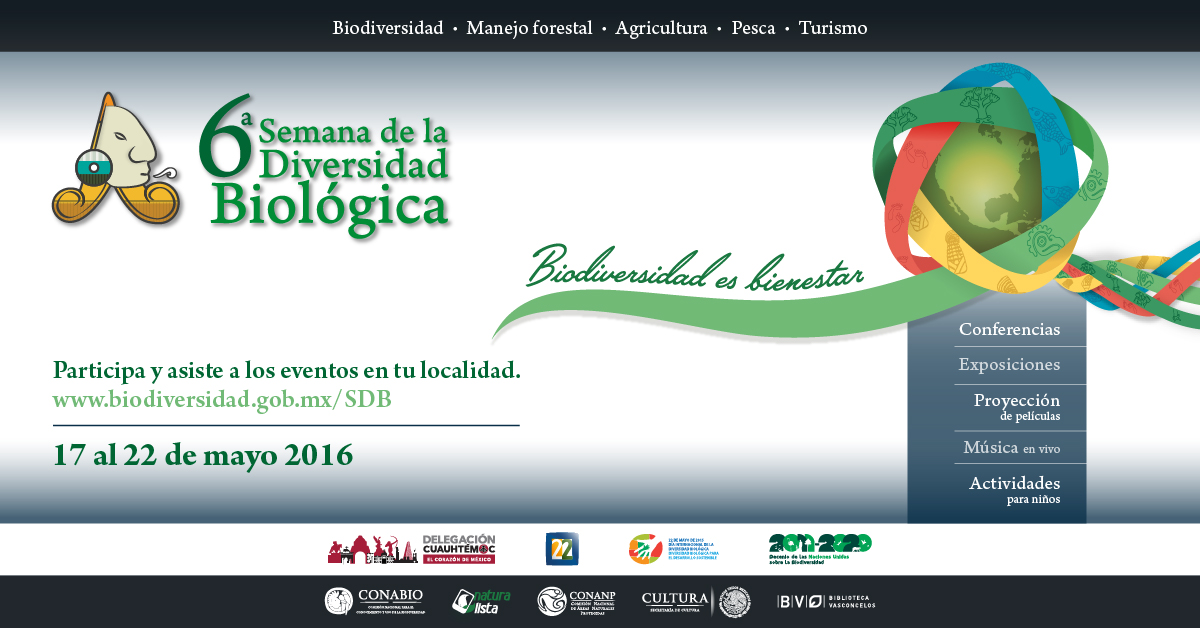
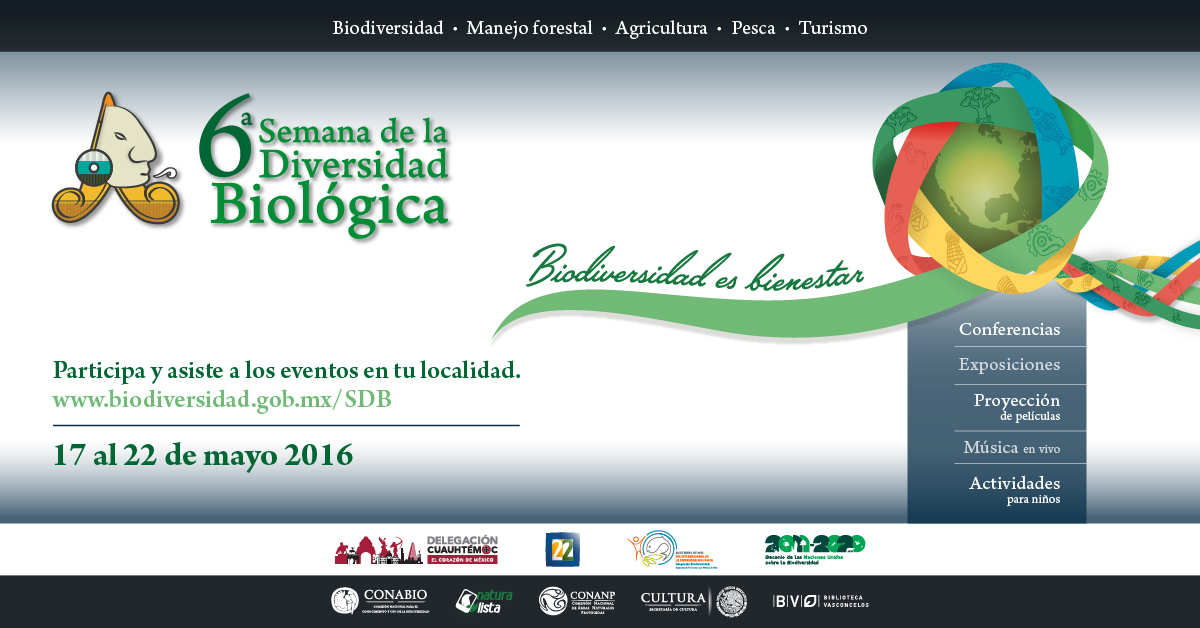
Nueva seccion ponentes, materiales

diff --git a/css/style.css b/css/style.css
@@ -787,7 +787,6 @@
 		
 		.piesImg {
 			font-size: 0.8em;
-			line-height: 1.5em;
 			margin: 0;
 		}
 

diff --git a/protected/views/semana/ponentes.php b/protected/views/semana/ponentes.php
@@ -1,0 +1,84 @@
+
+<script src="<?php echo Yii::app()->request->baseUrl; ?>/assets/js/jquery.min.js"></script>
+
+
+<link rel="stylesheet" href="<?php echo Yii::app()->request->baseUrl; ?>/css/jquery-ui.css">
+<script src="<?php echo Yii::app()->request->baseUrl; ?>/assets/js/jquery-1.10.2.js"></script>
+<script src="<?php echo Yii::app()->request->baseUrl; ?>/assets/js/jquery-ui.js"></script>
+<script>
+$(function() {
+$( "#accordion" ).accordion({
+  collapsible: true,
+  heightStyle: "content",
+  active: false
+});
+});
+</script>
+
+
+<h1>Ponentes</h1><br>
+
+<div style="width: 50%; display:inline-block; float:left;">
+<span class="tit_materiales">Biodiversidad es bienestar</span><br>
+<a href="http://web.ecologia.unam.mx/personal/personal_perfil.php?var1=Dr.&var2=José_A.&var3=Sarukhán&var4=Kermez" target="_blank">Dr. José A. Sarukhán Kermez</a><br>
+<a href="https://www.researchgate.net/profile/Hesiquio_Benitez-Diaz" target="_blank">Biól. Hesiquio Benítez Díaz</a><br>
+<a href="http://www.grandesmaestros.unam.mx/dr-alfredo-lopez-austin/" target="_blank">Dr. Alfredo López Austin</a><br>
+<a href="http://nestorgarciacanclini.net/index.php/semblanza" target="_blank">Dr. Néstor García Canclini</a><br>
+<a href="http://maestriaeditorial.xoc.uam.mx/index.php?option=com_content&view=article&id=242:dgoldin&catid=39:coordinadores&Itemid=91" target="_blank">Ma. Daniel Goldin Halfon</a><br><br>
+
+<span class="tit_materiales">Fotografía de naturaleza</span><br>
+<a href="https://twitter.com/letatdeschoses" target="_blank">Lic. Claudia Muzzi</a><br>
+<a href="http://luisjaviersandoval.photoshelter.com/#!/about" target="_blank">Biól. Luis Javier Sandoval</a><br>
+<a href="http://www.fulvioeccardi.com/" target="_blank">Biól. Fulvio Eccardi</a><br>
+<a href="http://jaguarnegro.mx/web/?page_id=90#.Vw_w-JMrLUI" target="_blank">Biól. Jorge Douglas Brandon Pliego</a><br>
+<a href="http://mixfm.mx/locutores/inaki-manero/" target="_blank">Iñaki Manero</a><br><br>
+
+
+<span class="tit_materiales">Agricultura y pesca</span><br>
+<a href="http://www.uccs.mx/expertos/agricultura_alimentacion/alejandro-espinosa-calderon.html" target="_blank">Dr. Alejandro Espinosa Calderón</a><br>
+<a href="https://www.youtube.com/watch?v=hHgkl80g57k" target="_blank">Dr. Pablo Arenas Fuentes</a><br>
+<a href="http://www.literatura.bellasartes.gob.mx/acervos/index.php/catalogo-biobibliografico/1424?showall=1" target="_blank">Victor Ronquillo</a><br>
+<a href="http://causanatura.org/acerca-de-causanatura/ernesto-herrera/" target="_blank">Dr. Ernesto Herrera Guerra</a><br>
+<a href="http://www.imer.mx/reactor/author/leonardoferrera/" target="_blank">Leonardo Ferrera</a><br>
+<!--<a href="https://es.wikipedia.org/wiki/Karla_Iberia_Sánchez" target="_blank">Karla Iberia Sánchez</a><br>-->
+<a href="https://www.youtube.com/watch?v=rlu1E7PgLzs" target="_blank">Dr. Teobaldo Eguiluz Piedra</a><br><br>
+</div>
+
+
+<div style="width: 50%; display:inline-block; float:left;">
+<span class="tit_materiales">Turismo y manejo forestal</span><br>
+<a href="http://www.puma.unam.mx/diplomado/index.php/cuerpo-docente/1-cuerpo-docente/20-pedro-alvarez-icaza" target="_blank">Mtro. Pedro Álvarez Icaza</a><br>
+<a href="http://www.ceiba.org.mx/quienes-somos/miembros/name/alfredo-arellano-guillermo/" target="_blank">Biól. Alfredo Arellano Guillermo</a><br>
+<a href="http://www.conafor.gob.mx:8080/documentos/docs/7/2355CV%20Enrique%20Jardel.pdf" target="_blank">M. en C. Enrique Jardel Peláez</a><br>
+<a href="https://www.youtube.com/watch?v=v8vxiwA4Ec4" target="_blank">Jordi Arenas</a><br>
+<!--<a href="" target="_blank">Lic. Salvador Villalobos</a><br>
+<a href="" target="_blank">Francisco Alanis</a>--><br><br>
+
+
+<span class="tit_materiales">Naturalista</span><br>
+<a href="http://conabio.inaturalist.org/people/heliographyst" target="_blank">Biól. Roberto Arreola Alemón</a><br>
+<a href="http://conabio.inaturalist.org/people/elizatorres" target="_blank">Biól. Elizabeth Torres Bahena</a><br>
+<a href="https://www.linkedin.com/in/astrid-domínguez-guerrero-a9833498" target="_blank">D.G. Astrid Domínguez Guerrero</a><br><br>
+</div>
+
+
+
+
+</section>
+
+<!-- Two -->
+<section id="two"></section>
+
+
+
+
+
+
+
+
+
+
+
+
+
+

diff --git a/protected/views/semana/materiales.php b/protected/views/semana/materiales.php
@@ -38,26 +38,27 @@
                                 <p class="tit_materiales"><img src="<?php echo Yii::app()->request->baseUrl; ?>/imagenes/aplicacion/SDB_2015/Imagenes/ic_video.png" width="25" height="22" /> Videos</p>
                                 <p>
                                 <iframe width="200" height="113" src="https://www.youtube.com/embed/aRjSxNLzwOs?rel=0" frameborder="0" allowfullscreen></iframe><br>
-                                <span class="piesImg"><strong>Promocional<br>
-                                </strong><span class="conabio">Conabio</span></span>
+                                <span class="piesImg"><strong>Promocional</strong> | <span class="conabio">Conabio</span></span>
                                 </p>
                                 
                                 <p>
                                 <iframe width="200" height="126" src="https://www.youtube.com/embed/videoseries?list=PLLAcoRHqCmNRCFBpoPEsXptvw22nSQ3p5" frameborder="0" allowfullscreen></iframe><br>
-                                <span class="piesImg"><strong>Serie BIOS, Naturaleza y sociedad<br>
-                                </strong><span class="conabio">Conabio</span></span>
+                                <span class="piesImg"><strong>Serie BIOS, Naturaleza y sociedad</strong> | <span class="conabio">Conabio</span></span>
+                                </p>
+                                
+                                <p>
+                                <iframe width="200" height="113" src="https://www.youtube.com/embed/TKAGeQG3m4s?rel=0" frameborder="0" allowfullscreen></iframe><br>
+                                <span class="piesImg"><strong>COP 13 de Biodiversidad</strong> | <span class="conabio">Conabio</span></span>
                                 </p>
                                 
                                 <p>
                                 <iframe width="200" height="126" src="https://www.youtube.com/embed/videoseries?list=PLLAcoRHqCmNQv7NSPwbaARfIIveV0Mx6C" frameborder="0" allowfullscreen></iframe><br>
-                                <span class="piesImg"><strong>Serie Hábitat<br>
-                                </strong>Pronatura México A.C.</span>
+                                <span class="piesImg"><strong>Serie Hábitat</strong> | Pronatura México A.C.</span>
                                 </p>
                                 
                                 <p>
                                 <iframe width="200" height="126" src="https://www.youtube.com/embed/videoseries?list=PLLAcoRHqCmNSRYOrx-s0B_5t0Qc99SIoT&amp" frameborder="0" allowfullscreen></iframe><br />
-                                <span class="piesImg"><strong>Serie Consumo Responsable<br />
-                                </strong><span class="conabio">Conabio</span></span>
+                                <span class="piesImg"><strong>Serie Consumo Responsable</strong> | <span class="conabio">Conabio</span></span>
                                 </p>
                                   
 								</td>

diff --git a/protected/views/semana/inicio.php b/protected/views/semana/inicio.php
@@ -10,7 +10,7 @@
   Organiza alguna conferencia o charla para el público general sobre uno o más sitios seleccionados en tu región o estado. Organiza un evento que ayude al público a reflexionar sobre la naturaleza de algún sitio especial.
   <br><br>
 Si tienes alguna duda o requieres m&aacute;s informaci&oacute;n escr&iacute;benos a:&nbsp;<a href="mailto:sdb@conabio.gob.mx">sdb@conabio.gob.mx</a></p>
-                          <p><a href="http://www.conabio.gob.mx/" target="_blank"><img src="<?php echo Yii::app()->request->baseUrl; ?>/imagenes/aplicacion/SDB_2015/Imagenes/logConabio.png" width="178" height="59" /></a> <a href="http://www.bibliotecavasconcelos.gob.mx/" target="_blank"><img src="<?php echo Yii::app()->request->baseUrl; ?>/imagenes/aplicacion/SDB_2015/Imagenes/logBVasconcelos.png" width="162" height="59" /></a> <a href="http://www.un.org/es/events/biodiversityday/" target="_blank"><img src="<?php echo Yii::app()->request->baseUrl; ?>/imagenes/aplicacion/SDB_2015/Imagenes/logos_DIntDivBiol.png" width="198" height="59" /></a> <a href="http://www.cuauhtemoc.cdmx.gob.mx" target="_blank"><img src="<?php echo Yii::app()->request->baseUrl; ?>/imagenes/aplicacion/SDB_2015/Imagenes/logo_delcuauhtemoc.png" width="243" height="59" /></a></p>
+                          <p><a href="http://www.conabio.gob.mx/" target="_blank"><img src="<?php echo Yii::app()->request->baseUrl; ?>/imagenes/aplicacion/SDB_2015/Imagenes/logConabio.png" width="178" height="59" /></a> <a href="http://www.bibliotecavasconcelos.gob.mx/" target="_blank"><img src="<?php echo Yii::app()->request->baseUrl; ?>/imagenes/aplicacion/SDB_2015/Imagenes/logBVasconcelos.png" width="162" height="59" /></a> <a href="http://www.un.org/es/events/biodiversityday/" target="_blank"><img src="<?php echo Yii::app()->request->baseUrl; ?>/imagenes/aplicacion/SDB_2015/Imagenes/logos_DIntDivBiol.png" width="147" height="59" /></a> <a href="http://www.cuauhtemoc.cdmx.gob.mx" target="_blank"><img src="<?php echo Yii::app()->request->baseUrl; ?>/imagenes/aplicacion/SDB_2015/Imagenes/logo_delcuauhtemoc.png" width="243" height="59" /></a></p>
                         
 </section>
 

diff --git a/protected/views/layouts/main.php b/protected/views/layouts/main.php
@@ -95,6 +95,8 @@ function MM_swapImage() { //v3.0
                         
                         <a href="<?php echo Yii::app()->request->baseUrl; ?>/index.php?r=semana/aliados"><img src="<?php echo Yii::app()->request->baseUrl; ?>/imagenes/aplicacion/SDB_2015/Imagenes/btn_aliados.png" name="aliados" width="90" height="127" id="aliados" onMouseOver="MM_swapImage('aliados &lt;img&gt;','','/Imagenes/titEstadisticas_03.png','aliados','','<?php echo Yii::app()->request->baseUrl; ?>/imagenes/aplicacion/SDB_2015/Imagenes/btn2_aliados.png',1)" onMouseOut="MM_swapImgRestore()"></a>
                         
+                        <a href="<?php echo Yii::app()->request->baseUrl; ?>/index.php?r=semana/ponentes"><img src="<?php echo Yii::app()->request->baseUrl; ?>/imagenes/aplicacion/SDB_2015/Imagenes/btn_ponentes.png" name="ponentes" width="90" height="127" id="ponentes" onMouseOver="MM_swapImage('ponentes &lt;img&gt;','','/Imagenes/titEstadisticas_03.png','ponentes','','<?php echo Yii::app()->request->baseUrl; ?>/imagenes/aplicacion/SDB_2015/Imagenes/btn2_ponentes.png',1)" onMouseOut="MM_swapImgRestore()"></a>
+                        
                         </p>
 						<?php if (!Yii::app()->user->isGuest) { ?>
 							<a href="<?php echo Yii::app()->request->baseUrl; ?>/index.php?r=semana/index">Ver tus eventos</a>

diff --git a/protected/views/semana/aliados.php b/protected/views/semana/aliados.php
@@ -6,9 +6,13 @@
 
 <li><a href="http://www.mexico.discovery.com/?x-country=MX&redirect-session=MX" target="_blank"><img src="<?php echo Yii::app()->request->baseUrl; ?>/imagenes/aplicacion/SDB_2015/Imagenes/logo64_discovery.png" alt="Discovery Channel"></a></li>
 
+<li><a href="http://www.reforestamosmexico.org" target="_blank"><img src="<?php echo Yii::app()->request->baseUrl; ?>/imagenes/aplicacion/SDB_2015/Imagenes/logo64_reforestamos.png" alt="Reforestamos México"></a></li>
+
 <li><a href="http://www.nikon.com.mx/" target="_blank"><img src="<?php echo Yii::app()->request->baseUrl; ?>/imagenes/aplicacion/SDB_2015/Imagenes/logo64_nikon.png" alt="Nikon"></a></li>
 
 <li><a href="http://www.fundacionacir.org.mx/" target="_blank"><img src="<?php echo Yii::app()->request->baseUrl; ?>/imagenes/aplicacion/SDB_2015/Imagenes/logo64_facir.png" alt="Fundación Acir"></a></li>
+
+<li><a href="http://acuariomichin.com" target="_blank"><img src="<?php echo Yii::app()->request->baseUrl; ?>/imagenes/aplicacion/SDB_2015/Imagenes/logo64_amichin.png" alt="Acuario Michin"></a></li>
 
 <li><a href="http://www.cronicaambiental.com.mx/" target="_blank"><img src="<?php echo Yii::app()->request->baseUrl; ?>/imagenes/aplicacion/SDB_2015/Imagenes/logo64_cronica.png" alt="Crónica ambiental"></a></li>
 

diff --git a/protected/controllers/SemanaController.php b/protected/controllers/SemanaController.php
@@ -29,7 +29,7 @@ class SemanaController extends Controller
 	{
 		return array(
 				array('allow',  // allow all users to perform 'index' and 'view' actions
-						'actions'=>array('view', 'admin', 'inicio', 'materiales', 'mat_ninos', 'aliados', 'estadisticas'),
+						'actions'=>array('view', 'admin', 'inicio', 'materiales', 'mat_ninos', 'aliados', 'estadisticas', 'ponentes'),
 						'users'=>array('*'),
 				),
 				array('allow', // allow authenticated user to perform 'create' and 'update' actions
@@ -184,6 +184,14 @@ class SemanaController extends Controller
 	public function actionAliados()
 	{
 		$this->render('aliados');
+	}
+	
+	/**
+	 * Pagina de Ponentes
+	 */
+	public function actionPonentes()
+	{
+		$this->render('ponentes');
 	}
 	
 	
